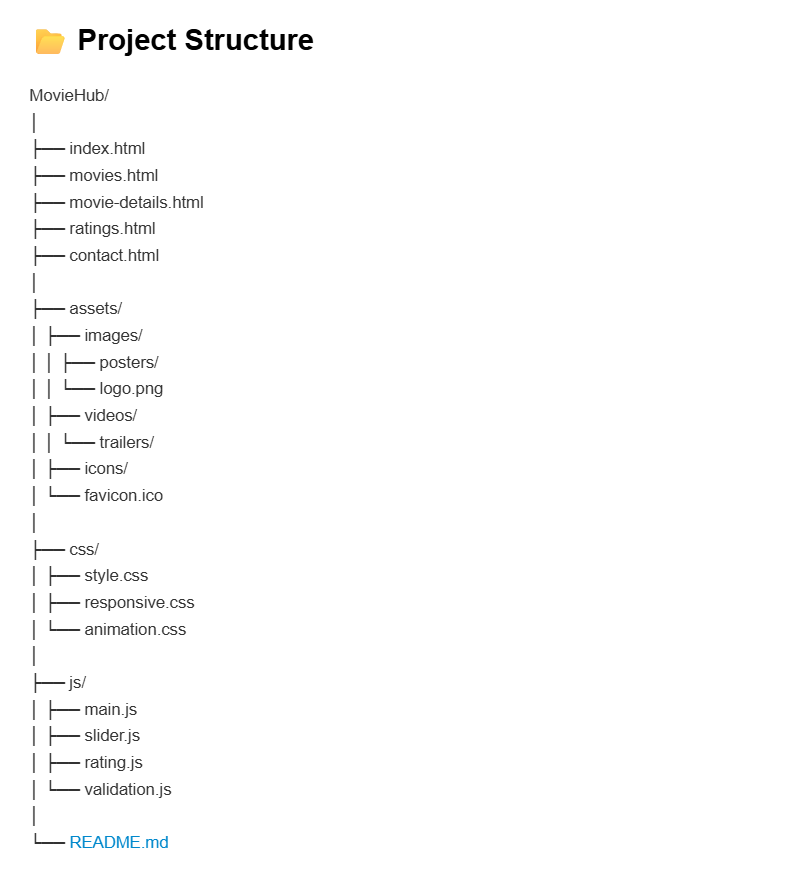
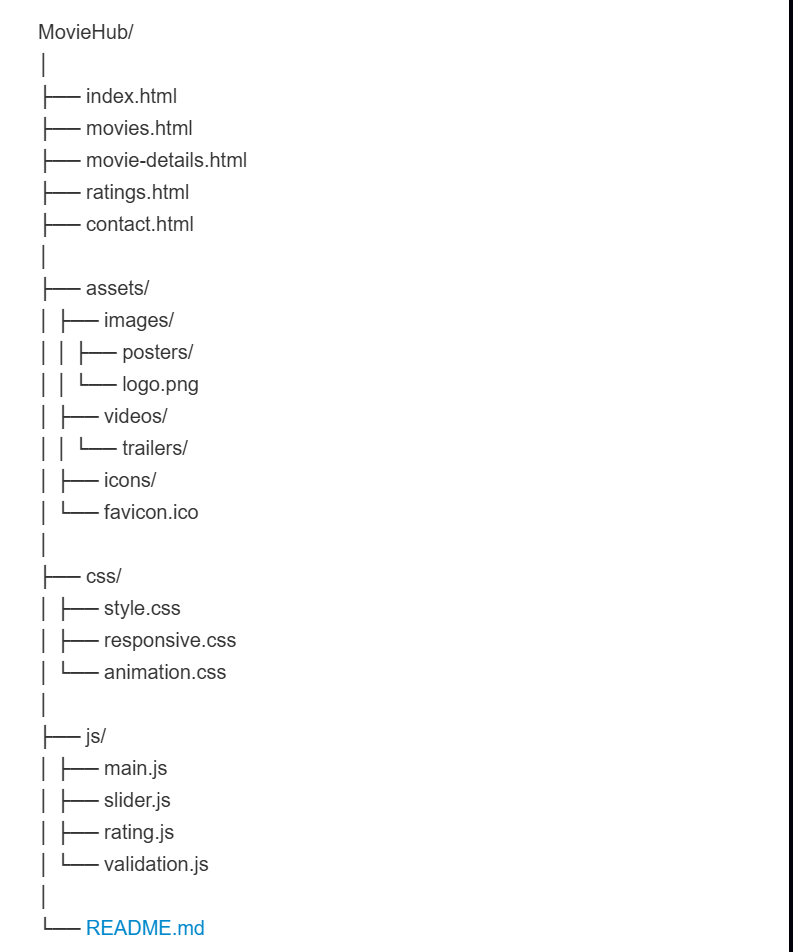
Project Structure image change

Changed region(s): [[0.0303, 0.0915, 0.3026, 1.0], [0.9685, 0.0, 1.0, 1.0], [0.0303, 0.0305, 0.3934, 0.061]]

diff --git a/README.md b/README.md
@@ -30,11 +30,9 @@ It provides movie lovers with a simple, interactive platform to **explore films,
 
 ---
 
+## 📂 Project Structure
 
-![## 📂 Project Structure](./assets/images/image.png)
-
-
----
+![Project Structure](./assets/images/image.png)
 
 ## 📸 Preview
 
